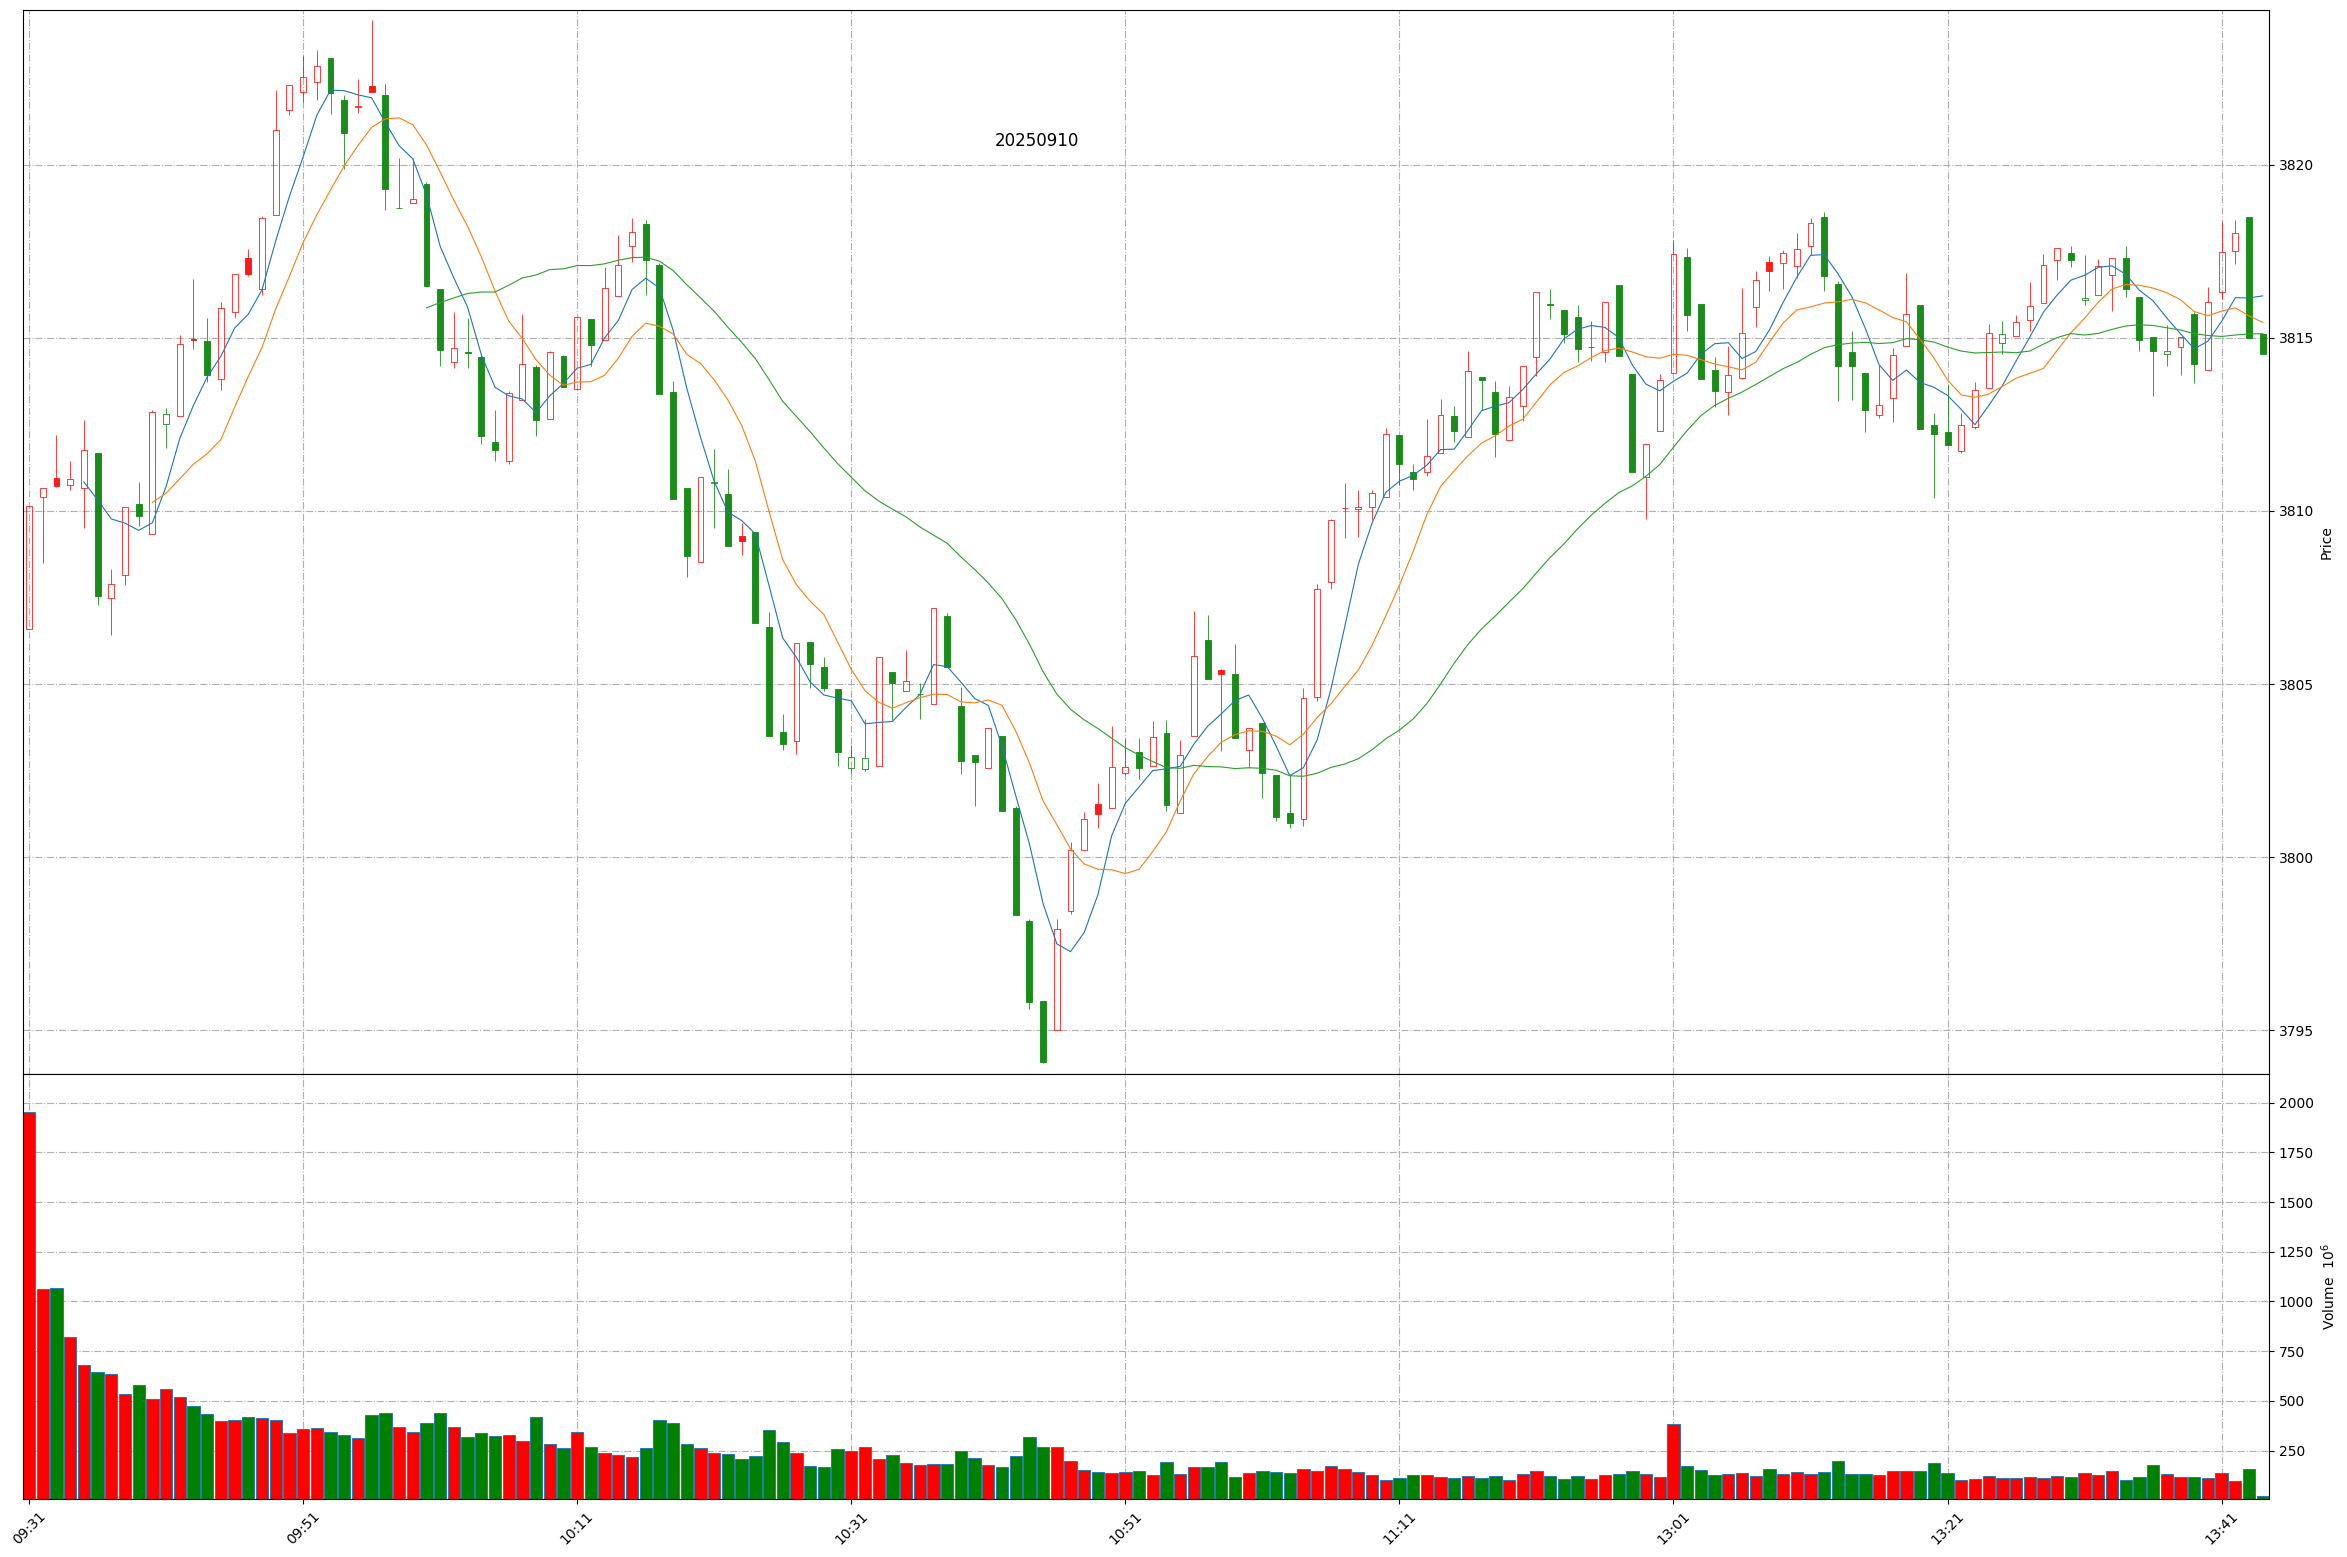
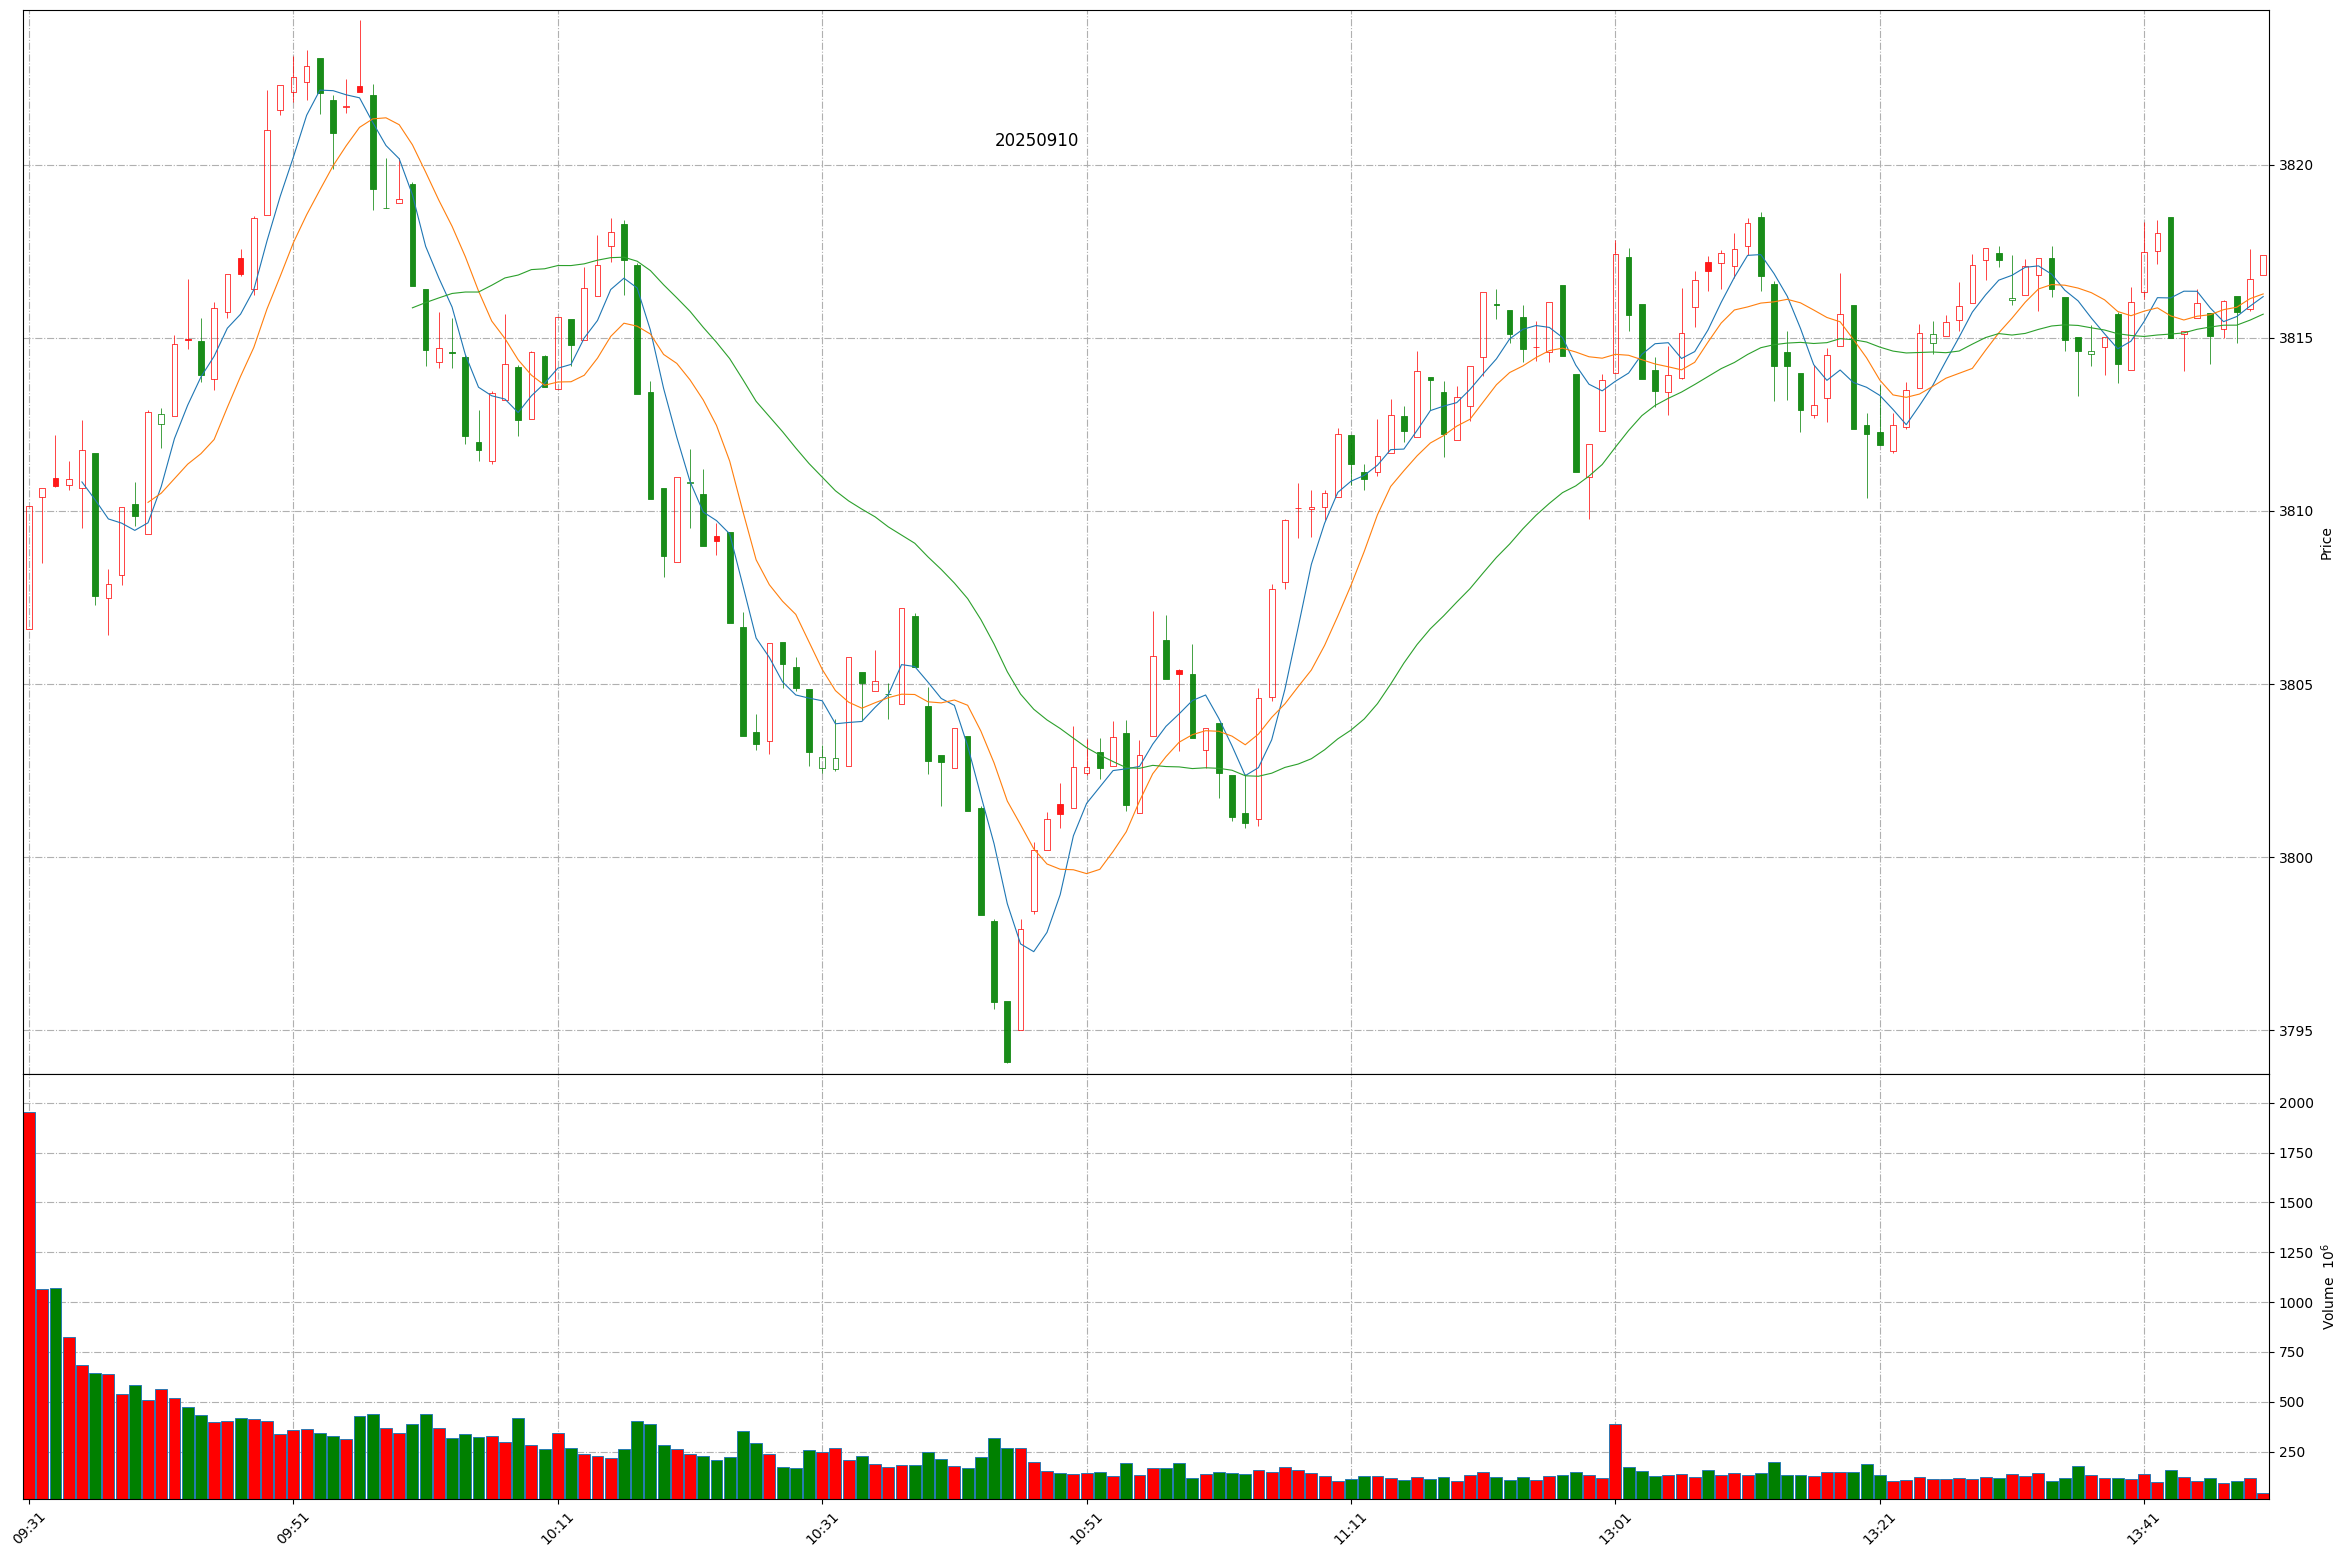
Github action update at 2025-09-10 13:49:51.

diff --git a/README.md b/README.md
@@ -1,11 +1,11 @@
 
 # Daily-A-share-market-quotes 每日 A 股指数（5min 更新）- 20250910
 
-### 上证指数 20250910 13:43
+### 上证指数 20250910 13:49
 ![](./fig/2025/9/20250910-sh000001.png)
 
-### 深证成指 20250910 13:43
+### 深证成指 20250910 13:49
 ![](./fig/2025/9/20250910-sz399001.png)
 
-### 北证50 20250910 13:43
+### 北证50 20250910 13:49
 ![](./fig/2025/9/20250910-bj899050.png)
